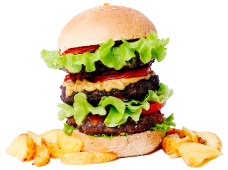
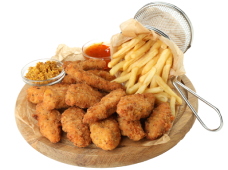
Product list design

diff --git a/index.html b/index.html
@@ -199,7 +199,7 @@
                 <div class="row_grid_food_products">
                     <div class="item_food_grid">
                         <div class="img_item_food_grid">
-                            <img src="assets/img/2.png" alt="product">
+                            <img src="assets/img/1.png" alt="product">
                             <div></div>
                         </div>
                         <div class="info_item_food_grid">
@@ -225,6 +225,205 @@
                             </div>
                             <div class="bottom_item_food_grid">
                                 <span class="price">$5.39</span>
+                                <button>
+                                    <svg xmlns="http://www.w3.org/2000/svg" width="24" height="24" viewBox="0 0 24 24" fill="none">
+                                        <path fill-rule="evenodd" clip-rule="evenodd" d="M5.9963 12C5.344 12 4.86633 12.6144 5.02717 13.2466L6.42488 18.7398C6.76319 20.0693 7.96032 21 9.33225 21H14.6652C16.0383 21 17.2362 20.0678 17.5734 18.7367L18.9644 13.2456C19.1245 12.6137 18.6469 12 17.9951 12H5.9963ZM9 16C9 15.4477 9.44771 15 10 15C10.5523 15 11 15.4477 11 16V17C11 17.5523 10.5523 18 10 18C9.44771 18 9 17.5523 9 17V16ZM13 16C13 15.4477 13.4477 15 14 15C14.5523 15 15 15.4477 15 16V17C15 17.5523 14.5523 18 14 18C13.4477 18 13 17.5523 13 17V16Z" fill="#FFEAE6"/>
+                                        <path d="M3 9C3 8.44772 3.44772 8 4 8H20C20.5523 8 21 8.44772 21 9C21 9.55228 20.5523 10 20 10H4C3.44772 10 3 9.55228 3 9Z" fill="#FFEAE6"/>
+                                        <path fill-rule="evenodd" clip-rule="evenodd" d="M10.7071 4.70711C11.0976 4.31658 11.0976 3.68342 10.7071 3.29289C10.3166 2.90237 9.68342 2.90237 9.29289 3.29289L8.29289 4.29289C7.90237 4.68342 7.90237 5.31658 8.29289 5.70711C8.68342 6.09763 9.31658 6.09763 9.70711 5.70711L10.7071 4.70711ZM13.2929 4.70711C12.9024 4.31658 12.9024 3.68342 13.2929 3.29289C13.6834 2.90237 14.3166 2.90237 14.7071 3.29289L15.7071 4.29289C16.0976 4.68342 16.0976 5.31658 15.7071 5.70711C15.3166 6.09763 14.6834 6.09763 14.2929 5.70711L13.2929 4.70711Z" fill="#FFEAE6"/>
+                                      </svg>
+                                </button>
+                            </div>
+                        </div>
+                    </div>
+                    <div class="item_food_grid">
+                        <div class="badge_discount">
+                            <img src="assets/img/Badge Discount (1).png" alt="">
+                        </div>
+                        <div class="img_item_food_grid">
+                            <img src="assets/img/2.png" alt="product">
+                            <div></div>
+                        </div>
+                        <div class="info_item_food_grid">
+                            <h5>Combo funny</h5>
+                            <p>fried chicken balls, french fries</p>
+                            <div class="score_item_food_grid">
+                                <svg xmlns="http://www.w3.org/2000/svg" width="20" height="19" viewBox="0 0 20 19" fill="none">
+                                    <path d="M9.04894 0.927052C9.3483 0.00574112 10.6517 0.00573993 10.9511 0.927051L12.4697 5.60081C12.6035 6.01284 12.9875 6.2918 13.4207 6.2918H18.335C19.3037 6.2918 19.7065 7.53141 18.9228 8.10081L14.947 10.9894C14.5966 11.244 14.4499 11.6954 14.5838 12.1074L16.1024 16.7812C16.4017 17.7025 15.3472 18.4686 14.5635 17.8992L10.5878 15.0106C10.2373 14.756 9.7627 14.756 9.41221 15.0106L5.43648 17.8992C4.65276 18.4686 3.59828 17.7025 3.89763 16.7812L5.41623 12.1074C5.55011 11.6954 5.40345 11.244 5.05296 10.9894L1.07722 8.10081C0.293507 7.53141 0.696283 6.2918 1.66501 6.2918H6.57929C7.01252 6.2918 7.39647 6.01284 7.53035 5.60081L9.04894 0.927052Z" fill="#FFC300"/>
+                                  </svg>
+                                <svg xmlns="http://www.w3.org/2000/svg" width="20" height="19" viewBox="0 0 20 19" fill="none">
+                                    <path d="M9.04894 0.927052C9.3483 0.00574112 10.6517 0.00573993 10.9511 0.927051L12.4697 5.60081C12.6035 6.01284 12.9875 6.2918 13.4207 6.2918H18.335C19.3037 6.2918 19.7065 7.53141 18.9228 8.10081L14.947 10.9894C14.5966 11.244 14.4499 11.6954 14.5838 12.1074L16.1024 16.7812C16.4017 17.7025 15.3472 18.4686 14.5635 17.8992L10.5878 15.0106C10.2373 14.756 9.7627 14.756 9.41221 15.0106L5.43648 17.8992C4.65276 18.4686 3.59828 17.7025 3.89763 16.7812L5.41623 12.1074C5.55011 11.6954 5.40345 11.244 5.05296 10.9894L1.07722 8.10081C0.293507 7.53141 0.696283 6.2918 1.66501 6.2918H6.57929C7.01252 6.2918 7.39647 6.01284 7.53035 5.60081L9.04894 0.927052Z" fill="#FFC300"/>
+                                  </svg>
+                                <svg xmlns="http://www.w3.org/2000/svg" width="20" height="19" viewBox="0 0 20 19" fill="none">
+                                    <path d="M9.04894 0.927052C9.3483 0.00574112 10.6517 0.00573993 10.9511 0.927051L12.4697 5.60081C12.6035 6.01284 12.9875 6.2918 13.4207 6.2918H18.335C19.3037 6.2918 19.7065 7.53141 18.9228 8.10081L14.947 10.9894C14.5966 11.244 14.4499 11.6954 14.5838 12.1074L16.1024 16.7812C16.4017 17.7025 15.3472 18.4686 14.5635 17.8992L10.5878 15.0106C10.2373 14.756 9.7627 14.756 9.41221 15.0106L5.43648 17.8992C4.65276 18.4686 3.59828 17.7025 3.89763 16.7812L5.41623 12.1074C5.55011 11.6954 5.40345 11.244 5.05296 10.9894L1.07722 8.10081C0.293507 7.53141 0.696283 6.2918 1.66501 6.2918H6.57929C7.01252 6.2918 7.39647 6.01284 7.53035 5.60081L9.04894 0.927052Z" fill="#FFC300"/>
+                                  </svg>
+                                <svg xmlns="http://www.w3.org/2000/svg" width="20" height="19" viewBox="0 0 20 19" fill="none">
+                                    <path d="M9.04894 0.927052C9.3483 0.00574112 10.6517 0.00573993 10.9511 0.927051L12.4697 5.60081C12.6035 6.01284 12.9875 6.2918 13.4207 6.2918H18.335C19.3037 6.2918 19.7065 7.53141 18.9228 8.10081L14.947 10.9894C14.5966 11.244 14.4499 11.6954 14.5838 12.1074L16.1024 16.7812C16.4017 17.7025 15.3472 18.4686 14.5635 17.8992L10.5878 15.0106C10.2373 14.756 9.7627 14.756 9.41221 15.0106L5.43648 17.8992C4.65276 18.4686 3.59828 17.7025 3.89763 16.7812L5.41623 12.1074C5.55011 11.6954 5.40345 11.244 5.05296 10.9894L1.07722 8.10081C0.293507 7.53141 0.696283 6.2918 1.66501 6.2918H6.57929C7.01252 6.2918 7.39647 6.01284 7.53035 5.60081L9.04894 0.927052Z" fill="#FFC300"/>
+                                  </svg>
+                                <svg xmlns="http://www.w3.org/2000/svg" width="20" height="19" viewBox="0 0 20 19" fill="none">
+                                    <path d="M9.04894 0.927052C9.3483 0.00574112 10.6517 0.00573993 10.9511 0.927051L12.4697 5.60081C12.6035 6.01284 12.9875 6.2918 13.4207 6.2918H18.335C19.3037 6.2918 19.7065 7.53141 18.9228 8.10081L14.947 10.9894C14.5966 11.244 14.4499 11.6954 14.5838 12.1074L16.1024 16.7812C16.4017 17.7025 15.3472 18.4686 14.5635 17.8992L10.5878 15.0106C10.2373 14.756 9.7627 14.756 9.41221 15.0106L5.43648 17.8992C4.65276 18.4686 3.59828 17.7025 3.89763 16.7812L5.41623 12.1074C5.55011 11.6954 5.40345 11.244 5.05296 10.9894L1.07722 8.10081C0.293507 7.53141 0.696283 6.2918 1.66501 6.2918H6.57929C7.01252 6.2918 7.39647 6.01284 7.53035 5.60081L9.04894 0.927052Z" fill="#FFC300"/>
+                                  </svg>
+                                <span>(5)</span>
+                            </div>
+                            <div class="bottom_item_food_grid">
+                                <span class="price">$10.3</span>
+                                <button>
+                                    <svg xmlns="http://www.w3.org/2000/svg" width="24" height="24" viewBox="0 0 24 24" fill="none">
+                                        <path fill-rule="evenodd" clip-rule="evenodd" d="M5.9963 12C5.344 12 4.86633 12.6144 5.02717 13.2466L6.42488 18.7398C6.76319 20.0693 7.96032 21 9.33225 21H14.6652C16.0383 21 17.2362 20.0678 17.5734 18.7367L18.9644 13.2456C19.1245 12.6137 18.6469 12 17.9951 12H5.9963ZM9 16C9 15.4477 9.44771 15 10 15C10.5523 15 11 15.4477 11 16V17C11 17.5523 10.5523 18 10 18C9.44771 18 9 17.5523 9 17V16ZM13 16C13 15.4477 13.4477 15 14 15C14.5523 15 15 15.4477 15 16V17C15 17.5523 14.5523 18 14 18C13.4477 18 13 17.5523 13 17V16Z" fill="#FFEAE6"/>
+                                        <path d="M3 9C3 8.44772 3.44772 8 4 8H20C20.5523 8 21 8.44772 21 9C21 9.55228 20.5523 10 20 10H4C3.44772 10 3 9.55228 3 9Z" fill="#FFEAE6"/>
+                                        <path fill-rule="evenodd" clip-rule="evenodd" d="M10.7071 4.70711C11.0976 4.31658 11.0976 3.68342 10.7071 3.29289C10.3166 2.90237 9.68342 2.90237 9.29289 3.29289L8.29289 4.29289C7.90237 4.68342 7.90237 5.31658 8.29289 5.70711C8.68342 6.09763 9.31658 6.09763 9.70711 5.70711L10.7071 4.70711ZM13.2929 4.70711C12.9024 4.31658 12.9024 3.68342 13.2929 3.29289C13.6834 2.90237 14.3166 2.90237 14.7071 3.29289L15.7071 4.29289C16.0976 4.68342 16.0976 5.31658 15.7071 5.70711C15.3166 6.09763 14.6834 6.09763 14.2929 5.70711L13.2929 4.70711Z" fill="#FFEAE6"/>
+                                      </svg>
+                                </button>
+                            </div>
+                        </div>
+                    </div>
+                    <div class="item_food_grid">
+                        <div class="img_item_food_grid">
+                            <img src="assets/img/3.png" alt="product">
+                            <div></div>
+                        </div>
+                        <div class="info_item_food_grid">
+                            <h5>Chicken with Spicy Sauce</h5>
+                            <p>chili garlic sauce, black pepper sauce</p>
+                            <div class="score_item_food_grid">
+                                <svg xmlns="http://www.w3.org/2000/svg" width="20" height="19" viewBox="0 0 20 19" fill="none">
+                                    <path d="M9.04894 0.927052C9.3483 0.00574112 10.6517 0.00573993 10.9511 0.927051L12.4697 5.60081C12.6035 6.01284 12.9875 6.2918 13.4207 6.2918H18.335C19.3037 6.2918 19.7065 7.53141 18.9228 8.10081L14.947 10.9894C14.5966 11.244 14.4499 11.6954 14.5838 12.1074L16.1024 16.7812C16.4017 17.7025 15.3472 18.4686 14.5635 17.8992L10.5878 15.0106C10.2373 14.756 9.7627 14.756 9.41221 15.0106L5.43648 17.8992C4.65276 18.4686 3.59828 17.7025 3.89763 16.7812L5.41623 12.1074C5.55011 11.6954 5.40345 11.244 5.05296 10.9894L1.07722 8.10081C0.293507 7.53141 0.696283 6.2918 1.66501 6.2918H6.57929C7.01252 6.2918 7.39647 6.01284 7.53035 5.60081L9.04894 0.927052Z" fill="#FFC300"/>
+                                  </svg>
+                                <svg xmlns="http://www.w3.org/2000/svg" width="20" height="19" viewBox="0 0 20 19" fill="none">
+                                    <path d="M9.04894 0.927052C9.3483 0.00574112 10.6517 0.00573993 10.9511 0.927051L12.4697 5.60081C12.6035 6.01284 12.9875 6.2918 13.4207 6.2918H18.335C19.3037 6.2918 19.7065 7.53141 18.9228 8.10081L14.947 10.9894C14.5966 11.244 14.4499 11.6954 14.5838 12.1074L16.1024 16.7812C16.4017 17.7025 15.3472 18.4686 14.5635 17.8992L10.5878 15.0106C10.2373 14.756 9.7627 14.756 9.41221 15.0106L5.43648 17.8992C4.65276 18.4686 3.59828 17.7025 3.89763 16.7812L5.41623 12.1074C5.55011 11.6954 5.40345 11.244 5.05296 10.9894L1.07722 8.10081C0.293507 7.53141 0.696283 6.2918 1.66501 6.2918H6.57929C7.01252 6.2918 7.39647 6.01284 7.53035 5.60081L9.04894 0.927052Z" fill="#FFC300"/>
+                                  </svg>
+                                <svg xmlns="http://www.w3.org/2000/svg" width="20" height="19" viewBox="0 0 20 19" fill="none">
+                                    <path d="M9.04894 0.927052C9.3483 0.00574112 10.6517 0.00573993 10.9511 0.927051L12.4697 5.60081C12.6035 6.01284 12.9875 6.2918 13.4207 6.2918H18.335C19.3037 6.2918 19.7065 7.53141 18.9228 8.10081L14.947 10.9894C14.5966 11.244 14.4499 11.6954 14.5838 12.1074L16.1024 16.7812C16.4017 17.7025 15.3472 18.4686 14.5635 17.8992L10.5878 15.0106C10.2373 14.756 9.7627 14.756 9.41221 15.0106L5.43648 17.8992C4.65276 18.4686 3.59828 17.7025 3.89763 16.7812L5.41623 12.1074C5.55011 11.6954 5.40345 11.244 5.05296 10.9894L1.07722 8.10081C0.293507 7.53141 0.696283 6.2918 1.66501 6.2918H6.57929C7.01252 6.2918 7.39647 6.01284 7.53035 5.60081L9.04894 0.927052Z" fill="#FFC300"/>
+                                  </svg>
+                                <svg xmlns="http://www.w3.org/2000/svg" width="20" height="19" viewBox="0 0 20 19" fill="none">
+                                    <path d="M9.04894 0.927052C9.3483 0.00574112 10.6517 0.00573993 10.9511 0.927051L12.4697 5.60081C12.6035 6.01284 12.9875 6.2918 13.4207 6.2918H18.335C19.3037 6.2918 19.7065 7.53141 18.9228 8.10081L14.947 10.9894C14.5966 11.244 14.4499 11.6954 14.5838 12.1074L16.1024 16.7812C16.4017 17.7025 15.3472 18.4686 14.5635 17.8992L10.5878 15.0106C10.2373 14.756 9.7627 14.756 9.41221 15.0106L5.43648 17.8992C4.65276 18.4686 3.59828 17.7025 3.89763 16.7812L5.41623 12.1074C5.55011 11.6954 5.40345 11.244 5.05296 10.9894L1.07722 8.10081C0.293507 7.53141 0.696283 6.2918 1.66501 6.2918H6.57929C7.01252 6.2918 7.39647 6.01284 7.53035 5.60081L9.04894 0.927052Z" fill="#FFC300"/>
+                                  </svg>
+                                <svg xmlns="http://www.w3.org/2000/svg" width="20" height="19" viewBox="0 0 20 19" fill="none">
+                                    <path d="M9.04894 0.927052C9.3483 0.00574112 10.6517 0.00573993 10.9511 0.927051L12.4697 5.60081C12.6035 6.01284 12.9875 6.2918 13.4207 6.2918H18.335C19.3037 6.2918 19.7065 7.53141 18.9228 8.10081L14.947 10.9894C14.5966 11.244 14.4499 11.6954 14.5838 12.1074L16.1024 16.7812C16.4017 17.7025 15.3472 18.4686 14.5635 17.8992L10.5878 15.0106C10.2373 14.756 9.7627 14.756 9.41221 15.0106L5.43648 17.8992C4.65276 18.4686 3.59828 17.7025 3.89763 16.7812L5.41623 12.1074C5.55011 11.6954 5.40345 11.244 5.05296 10.9894L1.07722 8.10081C0.293507 7.53141 0.696283 6.2918 1.66501 6.2918H6.57929C7.01252 6.2918 7.39647 6.01284 7.53035 5.60081L9.04894 0.927052Z" fill="#FFC300"/>
+                                  </svg>
+                                <span>(5)</span>
+                            </div>
+                            <div class="bottom_item_food_grid">
+                                <span class="price">$7.2</span>
+                                <button>
+                                    <svg xmlns="http://www.w3.org/2000/svg" width="24" height="24" viewBox="0 0 24 24" fill="none">
+                                        <path fill-rule="evenodd" clip-rule="evenodd" d="M5.9963 12C5.344 12 4.86633 12.6144 5.02717 13.2466L6.42488 18.7398C6.76319 20.0693 7.96032 21 9.33225 21H14.6652C16.0383 21 17.2362 20.0678 17.5734 18.7367L18.9644 13.2456C19.1245 12.6137 18.6469 12 17.9951 12H5.9963ZM9 16C9 15.4477 9.44771 15 10 15C10.5523 15 11 15.4477 11 16V17C11 17.5523 10.5523 18 10 18C9.44771 18 9 17.5523 9 17V16ZM13 16C13 15.4477 13.4477 15 14 15C14.5523 15 15 15.4477 15 16V17C15 17.5523 14.5523 18 14 18C13.4477 18 13 17.5523 13 17V16Z" fill="#FFEAE6"/>
+                                        <path d="M3 9C3 8.44772 3.44772 8 4 8H20C20.5523 8 21 8.44772 21 9C21 9.55228 20.5523 10 20 10H4C3.44772 10 3 9.55228 3 9Z" fill="#FFEAE6"/>
+                                        <path fill-rule="evenodd" clip-rule="evenodd" d="M10.7071 4.70711C11.0976 4.31658 11.0976 3.68342 10.7071 3.29289C10.3166 2.90237 9.68342 2.90237 9.29289 3.29289L8.29289 4.29289C7.90237 4.68342 7.90237 5.31658 8.29289 5.70711C8.68342 6.09763 9.31658 6.09763 9.70711 5.70711L10.7071 4.70711ZM13.2929 4.70711C12.9024 4.31658 12.9024 3.68342 13.2929 3.29289C13.6834 2.90237 14.3166 2.90237 14.7071 3.29289L15.7071 4.29289C16.0976 4.68342 16.0976 5.31658 15.7071 5.70711C15.3166 6.09763 14.6834 6.09763 14.2929 5.70711L13.2929 4.70711Z" fill="#FFEAE6"/>
+                                      </svg>
+                                </button>
+                            </div>
+                        </div>
+                    </div>
+                    <div class="item_food_grid">
+                        <div class="badge_discount">
+                            <img src="assets/img/Badge Discount (1).png" alt="">
+                        </div>
+                        <div class="img_item_food_grid">
+                            <img src="assets/img/4.png" alt="product">
+                            <div></div>
+                        </div>
+                        <div class="info_item_food_grid">
+                            <h5>Salad mixed vinegar</h5>
+                            <p>Salad, vinegar, tomato</p>
+                            <div class="score_item_food_grid">
+                                <svg xmlns="http://www.w3.org/2000/svg" width="20" height="19" viewBox="0 0 20 19" fill="none">
+                                    <path d="M9.04894 0.927052C9.3483 0.00574112 10.6517 0.00573993 10.9511 0.927051L12.4697 5.60081C12.6035 6.01284 12.9875 6.2918 13.4207 6.2918H18.335C19.3037 6.2918 19.7065 7.53141 18.9228 8.10081L14.947 10.9894C14.5966 11.244 14.4499 11.6954 14.5838 12.1074L16.1024 16.7812C16.4017 17.7025 15.3472 18.4686 14.5635 17.8992L10.5878 15.0106C10.2373 14.756 9.7627 14.756 9.41221 15.0106L5.43648 17.8992C4.65276 18.4686 3.59828 17.7025 3.89763 16.7812L5.41623 12.1074C5.55011 11.6954 5.40345 11.244 5.05296 10.9894L1.07722 8.10081C0.293507 7.53141 0.696283 6.2918 1.66501 6.2918H6.57929C7.01252 6.2918 7.39647 6.01284 7.53035 5.60081L9.04894 0.927052Z" fill="#FFC300"/>
+                                  </svg>
+                                <svg xmlns="http://www.w3.org/2000/svg" width="20" height="19" viewBox="0 0 20 19" fill="none">
+                                    <path d="M9.04894 0.927052C9.3483 0.00574112 10.6517 0.00573993 10.9511 0.927051L12.4697 5.60081C12.6035 6.01284 12.9875 6.2918 13.4207 6.2918H18.335C19.3037 6.2918 19.7065 7.53141 18.9228 8.10081L14.947 10.9894C14.5966 11.244 14.4499 11.6954 14.5838 12.1074L16.1024 16.7812C16.4017 17.7025 15.3472 18.4686 14.5635 17.8992L10.5878 15.0106C10.2373 14.756 9.7627 14.756 9.41221 15.0106L5.43648 17.8992C4.65276 18.4686 3.59828 17.7025 3.89763 16.7812L5.41623 12.1074C5.55011 11.6954 5.40345 11.244 5.05296 10.9894L1.07722 8.10081C0.293507 7.53141 0.696283 6.2918 1.66501 6.2918H6.57929C7.01252 6.2918 7.39647 6.01284 7.53035 5.60081L9.04894 0.927052Z" fill="#FFC300"/>
+                                  </svg>
+                                <svg xmlns="http://www.w3.org/2000/svg" width="20" height="19" viewBox="0 0 20 19" fill="none">
+                                    <path d="M9.04894 0.927052C9.3483 0.00574112 10.6517 0.00573993 10.9511 0.927051L12.4697 5.60081C12.6035 6.01284 12.9875 6.2918 13.4207 6.2918H18.335C19.3037 6.2918 19.7065 7.53141 18.9228 8.10081L14.947 10.9894C14.5966 11.244 14.4499 11.6954 14.5838 12.1074L16.1024 16.7812C16.4017 17.7025 15.3472 18.4686 14.5635 17.8992L10.5878 15.0106C10.2373 14.756 9.7627 14.756 9.41221 15.0106L5.43648 17.8992C4.65276 18.4686 3.59828 17.7025 3.89763 16.7812L5.41623 12.1074C5.55011 11.6954 5.40345 11.244 5.05296 10.9894L1.07722 8.10081C0.293507 7.53141 0.696283 6.2918 1.66501 6.2918H6.57929C7.01252 6.2918 7.39647 6.01284 7.53035 5.60081L9.04894 0.927052Z" fill="#FFC300"/>
+                                  </svg>
+                                <svg xmlns="http://www.w3.org/2000/svg" width="20" height="19" viewBox="0 0 20 19" fill="none">
+                                    <path d="M9.04894 0.927052C9.3483 0.00574112 10.6517 0.00573993 10.9511 0.927051L12.4697 5.60081C12.6035 6.01284 12.9875 6.2918 13.4207 6.2918H18.335C19.3037 6.2918 19.7065 7.53141 18.9228 8.10081L14.947 10.9894C14.5966 11.244 14.4499 11.6954 14.5838 12.1074L16.1024 16.7812C16.4017 17.7025 15.3472 18.4686 14.5635 17.8992L10.5878 15.0106C10.2373 14.756 9.7627 14.756 9.41221 15.0106L5.43648 17.8992C4.65276 18.4686 3.59828 17.7025 3.89763 16.7812L5.41623 12.1074C5.55011 11.6954 5.40345 11.244 5.05296 10.9894L1.07722 8.10081C0.293507 7.53141 0.696283 6.2918 1.66501 6.2918H6.57929C7.01252 6.2918 7.39647 6.01284 7.53035 5.60081L9.04894 0.927052Z" fill="#FFC300"/>
+                                  </svg>
+                                <svg xmlns="http://www.w3.org/2000/svg" width="20" height="19" viewBox="0 0 20 19" fill="none">
+                                    <path d="M9.04894 0.927052C9.3483 0.00574112 10.6517 0.00573993 10.9511 0.927051L12.4697 5.60081C12.6035 6.01284 12.9875 6.2918 13.4207 6.2918H18.335C19.3037 6.2918 19.7065 7.53141 18.9228 8.10081L14.947 10.9894C14.5966 11.244 14.4499 11.6954 14.5838 12.1074L16.1024 16.7812C16.4017 17.7025 15.3472 18.4686 14.5635 17.8992L10.5878 15.0106C10.2373 14.756 9.7627 14.756 9.41221 15.0106L5.43648 17.8992C4.65276 18.4686 3.59828 17.7025 3.89763 16.7812L5.41623 12.1074C5.55011 11.6954 5.40345 11.244 5.05296 10.9894L1.07722 8.10081C0.293507 7.53141 0.696283 6.2918 1.66501 6.2918H6.57929C7.01252 6.2918 7.39647 6.01284 7.53035 5.60081L9.04894 0.927052Z" fill="#FFC300"/>
+                                  </svg>
+                                <span>(5)</span>
+                            </div>
+                            <div class="bottom_item_food_grid">
+                                <span class="price">$5.4</span>
+                                <button>
+                                    <svg xmlns="http://www.w3.org/2000/svg" width="24" height="24" viewBox="0 0 24 24" fill="none">
+                                        <path fill-rule="evenodd" clip-rule="evenodd" d="M5.9963 12C5.344 12 4.86633 12.6144 5.02717 13.2466L6.42488 18.7398C6.76319 20.0693 7.96032 21 9.33225 21H14.6652C16.0383 21 17.2362 20.0678 17.5734 18.7367L18.9644 13.2456C19.1245 12.6137 18.6469 12 17.9951 12H5.9963ZM9 16C9 15.4477 9.44771 15 10 15C10.5523 15 11 15.4477 11 16V17C11 17.5523 10.5523 18 10 18C9.44771 18 9 17.5523 9 17V16ZM13 16C13 15.4477 13.4477 15 14 15C14.5523 15 15 15.4477 15 16V17C15 17.5523 14.5523 18 14 18C13.4477 18 13 17.5523 13 17V16Z" fill="#FFEAE6"/>
+                                        <path d="M3 9C3 8.44772 3.44772 8 4 8H20C20.5523 8 21 8.44772 21 9C21 9.55228 20.5523 10 20 10H4C3.44772 10 3 9.55228 3 9Z" fill="#FFEAE6"/>
+                                        <path fill-rule="evenodd" clip-rule="evenodd" d="M10.7071 4.70711C11.0976 4.31658 11.0976 3.68342 10.7071 3.29289C10.3166 2.90237 9.68342 2.90237 9.29289 3.29289L8.29289 4.29289C7.90237 4.68342 7.90237 5.31658 8.29289 5.70711C8.68342 6.09763 9.31658 6.09763 9.70711 5.70711L10.7071 4.70711ZM13.2929 4.70711C12.9024 4.31658 12.9024 3.68342 13.2929 3.29289C13.6834 2.90237 14.3166 2.90237 14.7071 3.29289L15.7071 4.29289C16.0976 4.68342 16.0976 5.31658 15.7071 5.70711C15.3166 6.09763 14.6834 6.09763 14.2929 5.70711L13.2929 4.70711Z" fill="#FFEAE6"/>
+                                      </svg>
+                                </button>
+                            </div>
+                        </div>
+                    </div>
+                    <div class="item_food_grid">
+                        <div class="img_item_food_grid">
+                            <img src="assets/img/5.png" alt="product">
+                            <div></div>
+                        </div>
+                        <div class="info_item_food_grid">
+                            <h5>Chicken burger</h5>
+                            <p>fried chicken</p>
+                            <div class="score_item_food_grid">
+                                <svg xmlns="http://www.w3.org/2000/svg" width="20" height="19" viewBox="0 0 20 19" fill="none">
+                                    <path d="M9.04894 0.927052C9.3483 0.00574112 10.6517 0.00573993 10.9511 0.927051L12.4697 5.60081C12.6035 6.01284 12.9875 6.2918 13.4207 6.2918H18.335C19.3037 6.2918 19.7065 7.53141 18.9228 8.10081L14.947 10.9894C14.5966 11.244 14.4499 11.6954 14.5838 12.1074L16.1024 16.7812C16.4017 17.7025 15.3472 18.4686 14.5635 17.8992L10.5878 15.0106C10.2373 14.756 9.7627 14.756 9.41221 15.0106L5.43648 17.8992C4.65276 18.4686 3.59828 17.7025 3.89763 16.7812L5.41623 12.1074C5.55011 11.6954 5.40345 11.244 5.05296 10.9894L1.07722 8.10081C0.293507 7.53141 0.696283 6.2918 1.66501 6.2918H6.57929C7.01252 6.2918 7.39647 6.01284 7.53035 5.60081L9.04894 0.927052Z" fill="#FFC300"/>
+                                  </svg>
+                                <svg xmlns="http://www.w3.org/2000/svg" width="20" height="19" viewBox="0 0 20 19" fill="none">
+                                    <path d="M9.04894 0.927052C9.3483 0.00574112 10.6517 0.00573993 10.9511 0.927051L12.4697 5.60081C12.6035 6.01284 12.9875 6.2918 13.4207 6.2918H18.335C19.3037 6.2918 19.7065 7.53141 18.9228 8.10081L14.947 10.9894C14.5966 11.244 14.4499 11.6954 14.5838 12.1074L16.1024 16.7812C16.4017 17.7025 15.3472 18.4686 14.5635 17.8992L10.5878 15.0106C10.2373 14.756 9.7627 14.756 9.41221 15.0106L5.43648 17.8992C4.65276 18.4686 3.59828 17.7025 3.89763 16.7812L5.41623 12.1074C5.55011 11.6954 5.40345 11.244 5.05296 10.9894L1.07722 8.10081C0.293507 7.53141 0.696283 6.2918 1.66501 6.2918H6.57929C7.01252 6.2918 7.39647 6.01284 7.53035 5.60081L9.04894 0.927052Z" fill="#FFC300"/>
+                                  </svg>
+                                <svg xmlns="http://www.w3.org/2000/svg" width="20" height="19" viewBox="0 0 20 19" fill="none">
+                                    <path d="M9.04894 0.927052C9.3483 0.00574112 10.6517 0.00573993 10.9511 0.927051L12.4697 5.60081C12.6035 6.01284 12.9875 6.2918 13.4207 6.2918H18.335C19.3037 6.2918 19.7065 7.53141 18.9228 8.10081L14.947 10.9894C14.5966 11.244 14.4499 11.6954 14.5838 12.1074L16.1024 16.7812C16.4017 17.7025 15.3472 18.4686 14.5635 17.8992L10.5878 15.0106C10.2373 14.756 9.7627 14.756 9.41221 15.0106L5.43648 17.8992C4.65276 18.4686 3.59828 17.7025 3.89763 16.7812L5.41623 12.1074C5.55011 11.6954 5.40345 11.244 5.05296 10.9894L1.07722 8.10081C0.293507 7.53141 0.696283 6.2918 1.66501 6.2918H6.57929C7.01252 6.2918 7.39647 6.01284 7.53035 5.60081L9.04894 0.927052Z" fill="#FFC300"/>
+                                  </svg>
+                                <svg xmlns="http://www.w3.org/2000/svg" width="20" height="19" viewBox="0 0 20 19" fill="none">
+                                    <path d="M9.04894 0.927052C9.3483 0.00574112 10.6517 0.00573993 10.9511 0.927051L12.4697 5.60081C12.6035 6.01284 12.9875 6.2918 13.4207 6.2918H18.335C19.3037 6.2918 19.7065 7.53141 18.9228 8.10081L14.947 10.9894C14.5966 11.244 14.4499 11.6954 14.5838 12.1074L16.1024 16.7812C16.4017 17.7025 15.3472 18.4686 14.5635 17.8992L10.5878 15.0106C10.2373 14.756 9.7627 14.756 9.41221 15.0106L5.43648 17.8992C4.65276 18.4686 3.59828 17.7025 3.89763 16.7812L5.41623 12.1074C5.55011 11.6954 5.40345 11.244 5.05296 10.9894L1.07722 8.10081C0.293507 7.53141 0.696283 6.2918 1.66501 6.2918H6.57929C7.01252 6.2918 7.39647 6.01284 7.53035 5.60081L9.04894 0.927052Z" fill="#FFC300"/>
+                                  </svg>
+                                <svg xmlns="http://www.w3.org/2000/svg" width="20" height="19" viewBox="0 0 20 19" fill="none">
+                                    <path d="M9.04894 0.927052C9.3483 0.00574112 10.6517 0.00573993 10.9511 0.927051L12.4697 5.60081C12.6035 6.01284 12.9875 6.2918 13.4207 6.2918H18.335C19.3037 6.2918 19.7065 7.53141 18.9228 8.10081L14.947 10.9894C14.5966 11.244 14.4499 11.6954 14.5838 12.1074L16.1024 16.7812C16.4017 17.7025 15.3472 18.4686 14.5635 17.8992L10.5878 15.0106C10.2373 14.756 9.7627 14.756 9.41221 15.0106L5.43648 17.8992C4.65276 18.4686 3.59828 17.7025 3.89763 16.7812L5.41623 12.1074C5.55011 11.6954 5.40345 11.244 5.05296 10.9894L1.07722 8.10081C0.293507 7.53141 0.696283 6.2918 1.66501 6.2918H6.57929C7.01252 6.2918 7.39647 6.01284 7.53035 5.60081L9.04894 0.927052Z" fill="#FFC300"/>
+                                  </svg>
+                                <span>(5)</span>
+                            </div>
+                            <div class="bottom_item_food_grid">
+                                <span class="price">$5.39</span>
+                                <button>
+                                    <svg xmlns="http://www.w3.org/2000/svg" width="24" height="24" viewBox="0 0 24 24" fill="none">
+                                        <path fill-rule="evenodd" clip-rule="evenodd" d="M5.9963 12C5.344 12 4.86633 12.6144 5.02717 13.2466L6.42488 18.7398C6.76319 20.0693 7.96032 21 9.33225 21H14.6652C16.0383 21 17.2362 20.0678 17.5734 18.7367L18.9644 13.2456C19.1245 12.6137 18.6469 12 17.9951 12H5.9963ZM9 16C9 15.4477 9.44771 15 10 15C10.5523 15 11 15.4477 11 16V17C11 17.5523 10.5523 18 10 18C9.44771 18 9 17.5523 9 17V16ZM13 16C13 15.4477 13.4477 15 14 15C14.5523 15 15 15.4477 15 16V17C15 17.5523 14.5523 18 14 18C13.4477 18 13 17.5523 13 17V16Z" fill="#FFEAE6"/>
+                                        <path d="M3 9C3 8.44772 3.44772 8 4 8H20C20.5523 8 21 8.44772 21 9C21 9.55228 20.5523 10 20 10H4C3.44772 10 3 9.55228 3 9Z" fill="#FFEAE6"/>
+                                        <path fill-rule="evenodd" clip-rule="evenodd" d="M10.7071 4.70711C11.0976 4.31658 11.0976 3.68342 10.7071 3.29289C10.3166 2.90237 9.68342 2.90237 9.29289 3.29289L8.29289 4.29289C7.90237 4.68342 7.90237 5.31658 8.29289 5.70711C8.68342 6.09763 9.31658 6.09763 9.70711 5.70711L10.7071 4.70711ZM13.2929 4.70711C12.9024 4.31658 12.9024 3.68342 13.2929 3.29289C13.6834 2.90237 14.3166 2.90237 14.7071 3.29289L15.7071 4.29289C16.0976 4.68342 16.0976 5.31658 15.7071 5.70711C15.3166 6.09763 14.6834 6.09763 14.2929 5.70711L13.2929 4.70711Z" fill="#FFEAE6"/>
+                                      </svg>
+                                </button>
+                            </div>
+                        </div>
+                    </div>
+                    <div class="item_food_grid">
+                        <div class="badge_discount">
+                            <img src="assets/img/Badge Discount (1).png" alt="">
+                        </div>
+                        <div class="img_item_food_grid">
+                            <img src="assets/img/6.png" alt="product">
+                            <div></div>
+                        </div>
+                        <div class="info_item_food_grid">
+                            <h5>Lipton</h5>
+                            
+                            <div class="score_item_food_grid">
+                                <svg xmlns="http://www.w3.org/2000/svg" width="20" height="19" viewBox="0 0 20 19" fill="none">
+                                    <path d="M9.04894 0.927052C9.3483 0.00574112 10.6517 0.00573993 10.9511 0.927051L12.4697 5.60081C12.6035 6.01284 12.9875 6.2918 13.4207 6.2918H18.335C19.3037 6.2918 19.7065 7.53141 18.9228 8.10081L14.947 10.9894C14.5966 11.244 14.4499 11.6954 14.5838 12.1074L16.1024 16.7812C16.4017 17.7025 15.3472 18.4686 14.5635 17.8992L10.5878 15.0106C10.2373 14.756 9.7627 14.756 9.41221 15.0106L5.43648 17.8992C4.65276 18.4686 3.59828 17.7025 3.89763 16.7812L5.41623 12.1074C5.55011 11.6954 5.40345 11.244 5.05296 10.9894L1.07722 8.10081C0.293507 7.53141 0.696283 6.2918 1.66501 6.2918H6.57929C7.01252 6.2918 7.39647 6.01284 7.53035 5.60081L9.04894 0.927052Z" fill="#FFC300"/>
+                                  </svg>
+                                <svg xmlns="http://www.w3.org/2000/svg" width="20" height="19" viewBox="0 0 20 19" fill="none">
+                                    <path d="M9.04894 0.927052C9.3483 0.00574112 10.6517 0.00573993 10.9511 0.927051L12.4697 5.60081C12.6035 6.01284 12.9875 6.2918 13.4207 6.2918H18.335C19.3037 6.2918 19.7065 7.53141 18.9228 8.10081L14.947 10.9894C14.5966 11.244 14.4499 11.6954 14.5838 12.1074L16.1024 16.7812C16.4017 17.7025 15.3472 18.4686 14.5635 17.8992L10.5878 15.0106C10.2373 14.756 9.7627 14.756 9.41221 15.0106L5.43648 17.8992C4.65276 18.4686 3.59828 17.7025 3.89763 16.7812L5.41623 12.1074C5.55011 11.6954 5.40345 11.244 5.05296 10.9894L1.07722 8.10081C0.293507 7.53141 0.696283 6.2918 1.66501 6.2918H6.57929C7.01252 6.2918 7.39647 6.01284 7.53035 5.60081L9.04894 0.927052Z" fill="#FFC300"/>
+                                  </svg>
+                                <svg xmlns="http://www.w3.org/2000/svg" width="20" height="19" viewBox="0 0 20 19" fill="none">
+                                    <path d="M9.04894 0.927052C9.3483 0.00574112 10.6517 0.00573993 10.9511 0.927051L12.4697 5.60081C12.6035 6.01284 12.9875 6.2918 13.4207 6.2918H18.335C19.3037 6.2918 19.7065 7.53141 18.9228 8.10081L14.947 10.9894C14.5966 11.244 14.4499 11.6954 14.5838 12.1074L16.1024 16.7812C16.4017 17.7025 15.3472 18.4686 14.5635 17.8992L10.5878 15.0106C10.2373 14.756 9.7627 14.756 9.41221 15.0106L5.43648 17.8992C4.65276 18.4686 3.59828 17.7025 3.89763 16.7812L5.41623 12.1074C5.55011 11.6954 5.40345 11.244 5.05296 10.9894L1.07722 8.10081C0.293507 7.53141 0.696283 6.2918 1.66501 6.2918H6.57929C7.01252 6.2918 7.39647 6.01284 7.53035 5.60081L9.04894 0.927052Z" fill="#FFC300"/>
+                                  </svg>
+                                <svg xmlns="http://www.w3.org/2000/svg" width="20" height="19" viewBox="0 0 20 19" fill="none">
+                                    <path d="M9.04894 0.927052C9.3483 0.00574112 10.6517 0.00573993 10.9511 0.927051L12.4697 5.60081C12.6035 6.01284 12.9875 6.2918 13.4207 6.2918H18.335C19.3037 6.2918 19.7065 7.53141 18.9228 8.10081L14.947 10.9894C14.5966 11.244 14.4499 11.6954 14.5838 12.1074L16.1024 16.7812C16.4017 17.7025 15.3472 18.4686 14.5635 17.8992L10.5878 15.0106C10.2373 14.756 9.7627 14.756 9.41221 15.0106L5.43648 17.8992C4.65276 18.4686 3.59828 17.7025 3.89763 16.7812L5.41623 12.1074C5.55011 11.6954 5.40345 11.244 5.05296 10.9894L1.07722 8.10081C0.293507 7.53141 0.696283 6.2918 1.66501 6.2918H6.57929C7.01252 6.2918 7.39647 6.01284 7.53035 5.60081L9.04894 0.927052Z" fill="#FFC300"/>
+                                  </svg>
+                                <svg xmlns="http://www.w3.org/2000/svg" width="20" height="19" viewBox="0 0 20 19" fill="none">
+                                    <path d="M9.04894 0.927052C9.3483 0.00574112 10.6517 0.00573993 10.9511 0.927051L12.4697 5.60081C12.6035 6.01284 12.9875 6.2918 13.4207 6.2918H18.335C19.3037 6.2918 19.7065 7.53141 18.9228 8.10081L14.947 10.9894C14.5966 11.244 14.4499 11.6954 14.5838 12.1074L16.1024 16.7812C16.4017 17.7025 15.3472 18.4686 14.5635 17.8992L10.5878 15.0106C10.2373 14.756 9.7627 14.756 9.41221 15.0106L5.43648 17.8992C4.65276 18.4686 3.59828 17.7025 3.89763 16.7812L5.41623 12.1074C5.55011 11.6954 5.40345 11.244 5.05296 10.9894L1.07722 8.10081C0.293507 7.53141 0.696283 6.2918 1.66501 6.2918H6.57929C7.01252 6.2918 7.39647 6.01284 7.53035 5.60081L9.04894 0.927052Z" fill="#FFC300"/>
+                                  </svg>
+                                <span>(5)</span>
+                            </div>
+                            <div class="bottom_item_food_grid">
+                                <span class="price">$2.8</span>
                                 <button>
                                     <svg xmlns="http://www.w3.org/2000/svg" width="24" height="24" viewBox="0 0 24 24" fill="none">
                                         <path fill-rule="evenodd" clip-rule="evenodd" d="M5.9963 12C5.344 12 4.86633 12.6144 5.02717 13.2466L6.42488 18.7398C6.76319 20.0693 7.96032 21 9.33225 21H14.6652C16.0383 21 17.2362 20.0678 17.5734 18.7367L18.9644 13.2456C19.1245 12.6137 18.6469 12 17.9951 12H5.9963ZM9 16C9 15.4477 9.44771 15 10 15C10.5523 15 11 15.4477 11 16V17C11 17.5523 10.5523 18 10 18C9.44771 18 9 17.5523 9 17V16ZM13 16C13 15.4477 13.4477 15 14 15C14.5523 15 15 15.4477 15 16V17C15 17.5523 14.5523 18 14 18C13.4477 18 13 17.5523 13 17V16Z" fill="#FFEAE6"/>

diff --git a/assets/css/style.css b/assets/css/style.css
@@ -348,22 +348,37 @@ img{
 }
 
 .row_grid_food_products{
+    display: grid;
+    grid-template-columns: repeat(3,370px);
+    gap: 30px;
     margin-top: 32px;
 }
 
 .item_food_grid{
-    width: 300px;
     border: 1px solid var(--color_E3E3E3);
     padding: 16px;
     border-radius: 12px;
+    position: relative;
     -webkit-border-radius: 12px;
     -moz-border-radius: 12px;
     -ms-border-radius: 12px;
     -o-border-radius: 12px;
+   
+}
+
+.badge_discount{
+    position: absolute;
+    width: 48px;
 }
 
 .img_item_food_grid{
     position: relative;
+    text-align: center;
+}
+
+.img_item_food_grid img{
+    max-width: 227px;
+    max-height: 170px;
 }
 
 .img_item_food_grid >div{

diff --git a/assets/css/media.css b/assets/css/media.css
@@ -11,6 +11,11 @@
         top: -2rem;
         left: -10rem;
     }
+    .row_grid_food_products{
+        grid-template-columns: repeat(2,370px);
+        gap: 30px;
+    }
+    
 }
 @media (max-width:834px){
     .navgation{
@@ -60,6 +65,7 @@
         display: none;
     }
 }
+
 @media (max-width:676px){
     .header_bottom{
         grid-template-columns: repeat(1,1fr);
@@ -93,6 +99,7 @@
         margin-top: -2px;
     }
 }
+
 @media (min-width:677px){
    .order_food_mobile{
     display: none;
